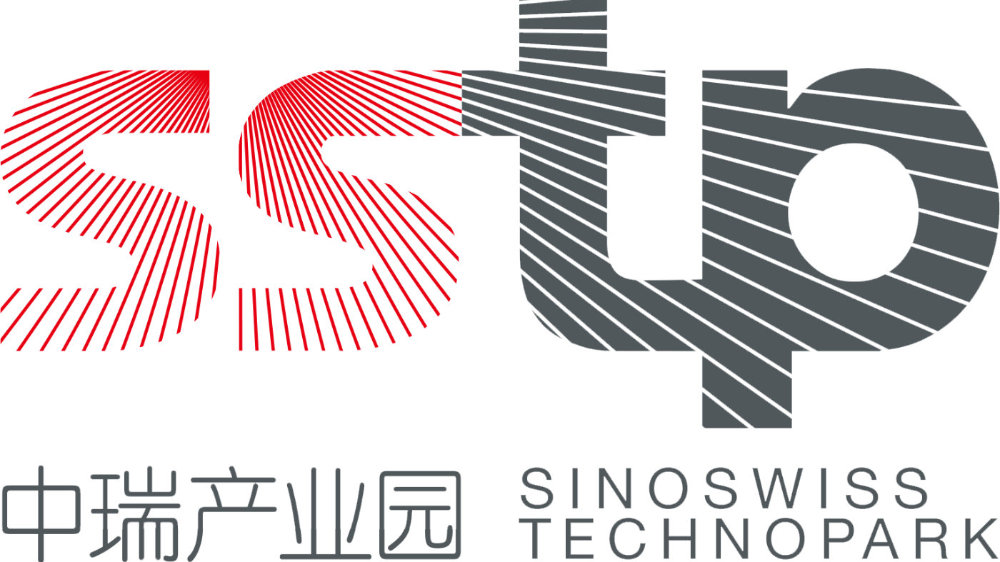
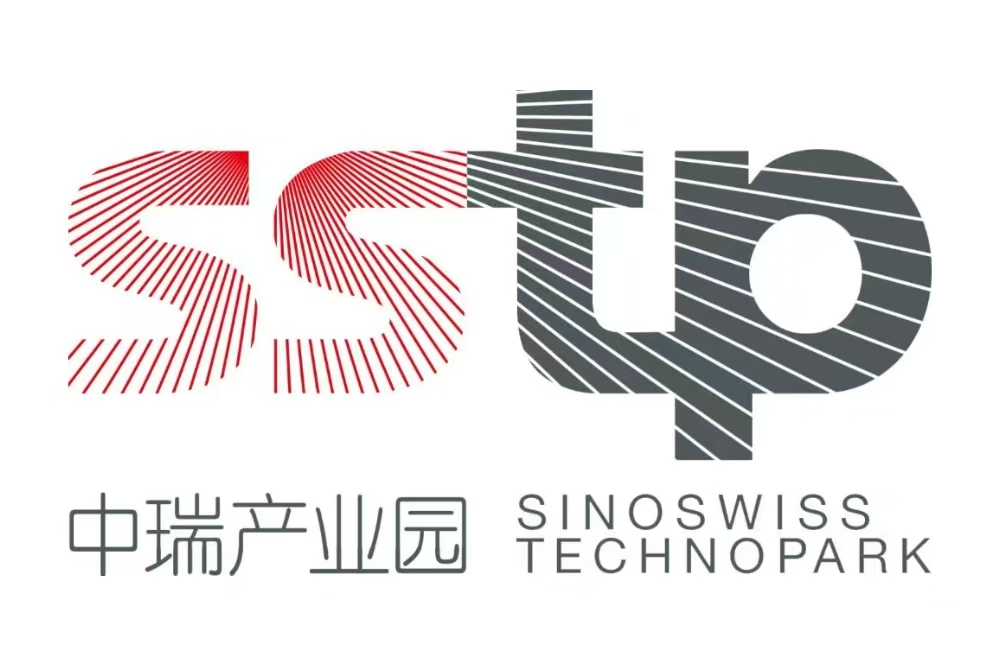
企业logo优化

diff --git a/src/views/Content/components/ConCar1.vue b/src/views/Content/components/ConCar1.vue
@@ -1,14 +1,22 @@
 <template>
   <div class="marquee-container" @mouseenter="pauseMarquee" @mouseleave="resumeMarquee">
     <marquee-text
-     ref="marquee"
-      :repeat="repeatTimes"
-      :duration="5"
-      :paused="paused">
-      <a v-for="(badge, index) in badges" :key="index" :href="badge.link" target="_blank" class="badge-link">
-        <img :src="badge.image" :alt="badge.name" class="badge-img" />
-      </a>
-    </marquee-text>
+  v-if="badges.length"
+  ref="marquee"
+  :repeat="repeatTimes"
+  :duration="5"
+  :paused="paused"
+>
+  <a
+    v-for="(badge, index) in badges"
+    :key="index"
+    :href="badge.link"
+    target="_blank"
+    class="badge-link"
+  >
+    <img :src="badge.image" :alt="badge.name" class="badge-img" />
+  </a>
+</marquee-text>
   </div>
 </template>
 
@@ -20,43 +28,61 @@ const iconWidth = 50;
 const repeatTimes = ref(20);
 const paused = ref(false);
 
-const badges = [
-  {
-    image: "/conpanylogs/CJAE.jpg",
-    name: "校徽",
-    link: "https://www.douyin.com/",
-  },
-  {
-    image: "/conpanylogs/CML.png",
-    name: "院徽",
-    link: "https://example.com/yuanhui",
-  },
-  {
-    image: "/conpanylogs/Deloite.jpg",
-    name: "校徽",
-    link: "https://example.com/xiaohui",
-  },
-  {
-    image: "/conpanylogs/Haier.jpeg",
-    name: "院徽",
-    link: "https://example.com/yuanhui",
-  },
-  {
-    image: "/conpanylogs/oppo.jpeg",
-    name: "校徽",
-    link: "https://example.com/xiaohui",
-  },
-  {
-    image: "/conpanylogs/RangeZhihui.jpeg",
-    name: "院徽",
-    link: "https://example.com/yuanhui",
-  },
-  {
-    image: "/conpanylogs/sstp.jpg",
-    name: "院徽",
-    link: "https://example.com/yuanhui",
-  },
-];
+const badges = ref([]);
+
+const fetchBadges = async () => {
+  try {
+    const res = await fetch('/imageList.json');
+    if (!res.ok) {
+      throw new Error(`HTTP error! status: ${res.status}`);
+    }
+    const data = await res.json();
+    badges.value = data.logos; // 将数据赋值给 badges
+    console.log('Fetched badges:', badges.value);
+  } catch (error) {
+    console.error('Error fetching badges:', error);
+  }
+};
+
+
+
+// const badges = [
+//   {
+//     image: "/conpanylogs/CJAE.jpg",
+//     name: "校徽",
+//     link: "https://www.douyin.com/",
+//   },
+//   {
+//     image: "/conpanylogs/CML.png",
+//     name: "院徽",
+//     link: "https://example.com/yuanhui",
+//   },
+//   {
+//     image: "/conpanylogs/Deloite.jpg",
+//     name: "校徽",
+//     link: "https://example.com/xiaohui",
+//   },
+//   {
+//     image: "/conpanylogs/Haier.jpeg",
+//     name: "院徽",
+//     link: "https://example.com/yuanhui",
+//   },
+//   {
+//     image: "/conpanylogs/oppo.jpeg",
+//     name: "校徽",
+//     link: "https://example.com/xiaohui",
+//   },
+//   {
+//     image: "/conpanylogs/RangeZhihui.jpeg",
+//     name: "院徽",
+//     link: "https://example.com/yuanhui",
+//   },
+//   {
+//     image: "/conpanylogs/sstp.jpg",
+//     name: "院徽",
+//     link: "https://example.com/yuanhui",
+//   },
+// ];
 
 // 手动控制动画播放状态
 const marquee = ref(null);
@@ -73,7 +99,9 @@ const resumeMarquee = () => {
   }
 };
 
-onMounted(() => {
+onMounted(async () => {
+  await fetchBadges();
+
   // 计算出icon需要重复多少次才能填满与浏览器窗口等宽的容器
   if (!isNaN(document.body.clientWidth)) {
     repeatTimes.value = Math.ceil(document.body.clientWidth / iconWidth);
@@ -102,8 +130,8 @@ onMounted(() => {
 }
 
 .badge-img {
-  width: 80px;
-  height: 80px;
+  width: 75px;
+  height: 50px;
   object-fit: contain;
   transition: transform 0.2s ease;
   border-radius: 20px;

diff --git a/src/stores/conList.js b/src/stores/conList.js
@@ -51,7 +51,7 @@ const useConInfoStore = defineStore("conInfo", {
           return obj;
         }); // 这里你之前的 this.setData 逻辑可能需要根据新的数据结构调整，这里先注释掉 // this.setData = this.data.map(row => new Set(row));
 
-        console.log(this.data);
+        // console.log(this.data);
       } catch (error) {
         console.error("Error loading Excel data:", error);
       }

diff --git a/src/views/Content/index.vue b/src/views/Content/index.vue
@@ -22,7 +22,7 @@ import { ref } from 'vue'
 
     <div class="content">
         <div class="middle">
-            <div style="height: 17%; width: 100%;  box-sizing: border-box;">
+            <div style="height: 17%; width: 100%;  box-sizing: border-box; position: relative; top: 17px;">
                 <ConCar1></ConCar1>
             </div>
             <div
